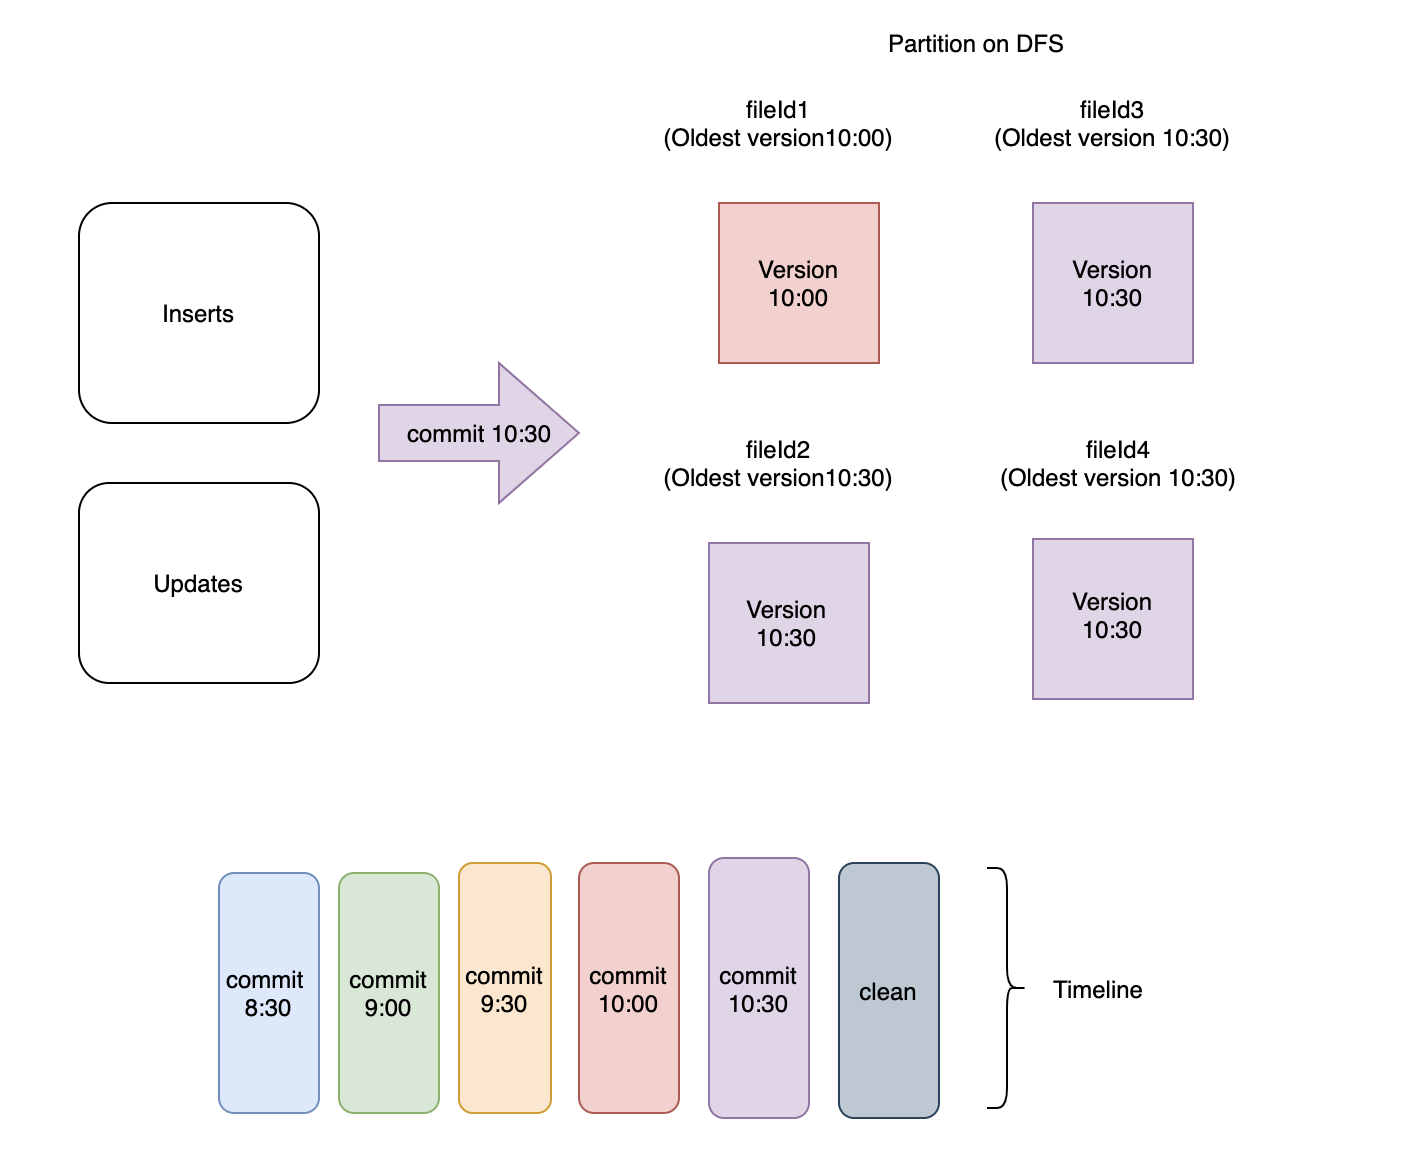
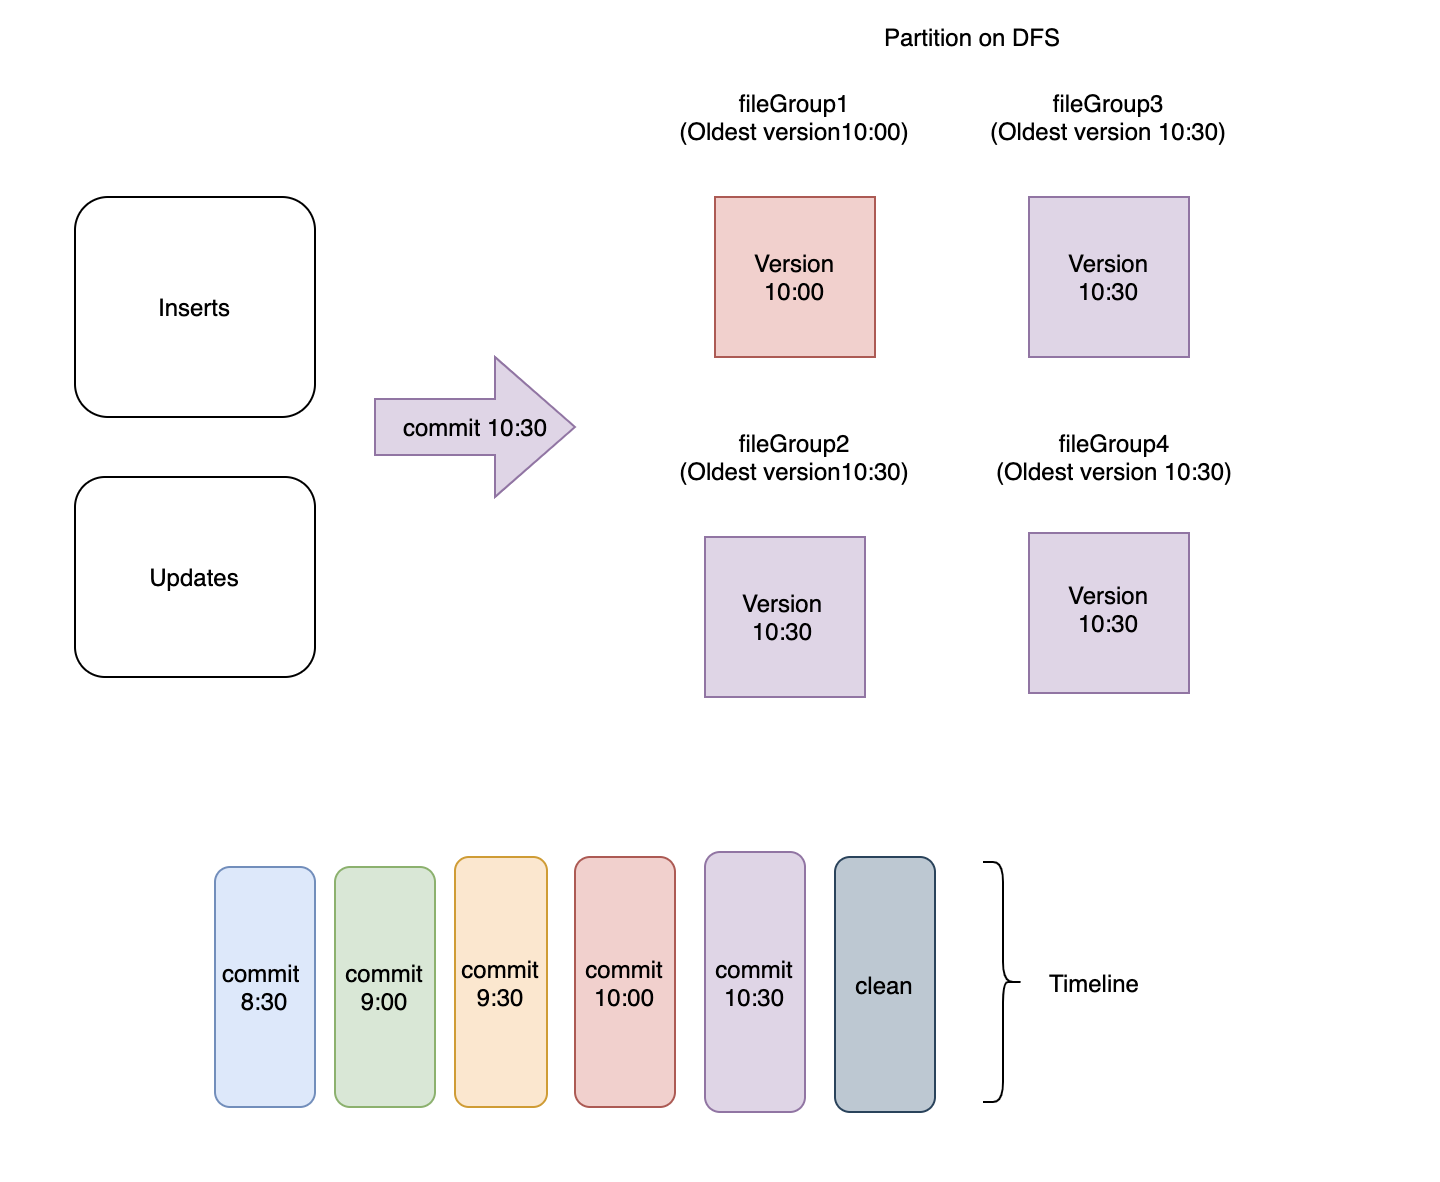
code review comments addressed

diff --git a/docs/_posts/2021-06-10-employing-right-configurations-for-hudi-cleaner.md b/docs/_posts/2021-06-10-employing-right-configurations-for-hudi-cleaner.md
@@ -37,7 +37,7 @@ Suppose a user is ingesting data into a hudi dataset of type COPY_ON_WRITE every
 ![Initial timeline](/assets/images/blog/hoodie-cleaner/Initial_timeline.png)
 _Figure1: Incoming records getting ingested into a hudi dataset every 30 minutes_
 
-The figure shows a particular partition on DFS where commits and corresponding file versions are color coded. 4 different file groups are created in this partition as depicted by fileId1, fileId2, fileId3 and fileId4. File group corresponding to fileId2 has records ingested from all the 5 commits, while the group corresponding to fileId4 has records from the latest 2 commits only.
+The figure shows a particular partition on DFS where commits and corresponding file versions are color coded. 4 different file groups are created in this partition as depicted by fileGroup1, fileGroup2, fileGroup3 and fileGroup4. File group corresponding to fileGroup2 has records ingested from all the 5 commits, while the group corresponding to fileGroup4 has records from the latest 2 commits only.
 
 Suppose the user uses the below configs for cleaning:
 
